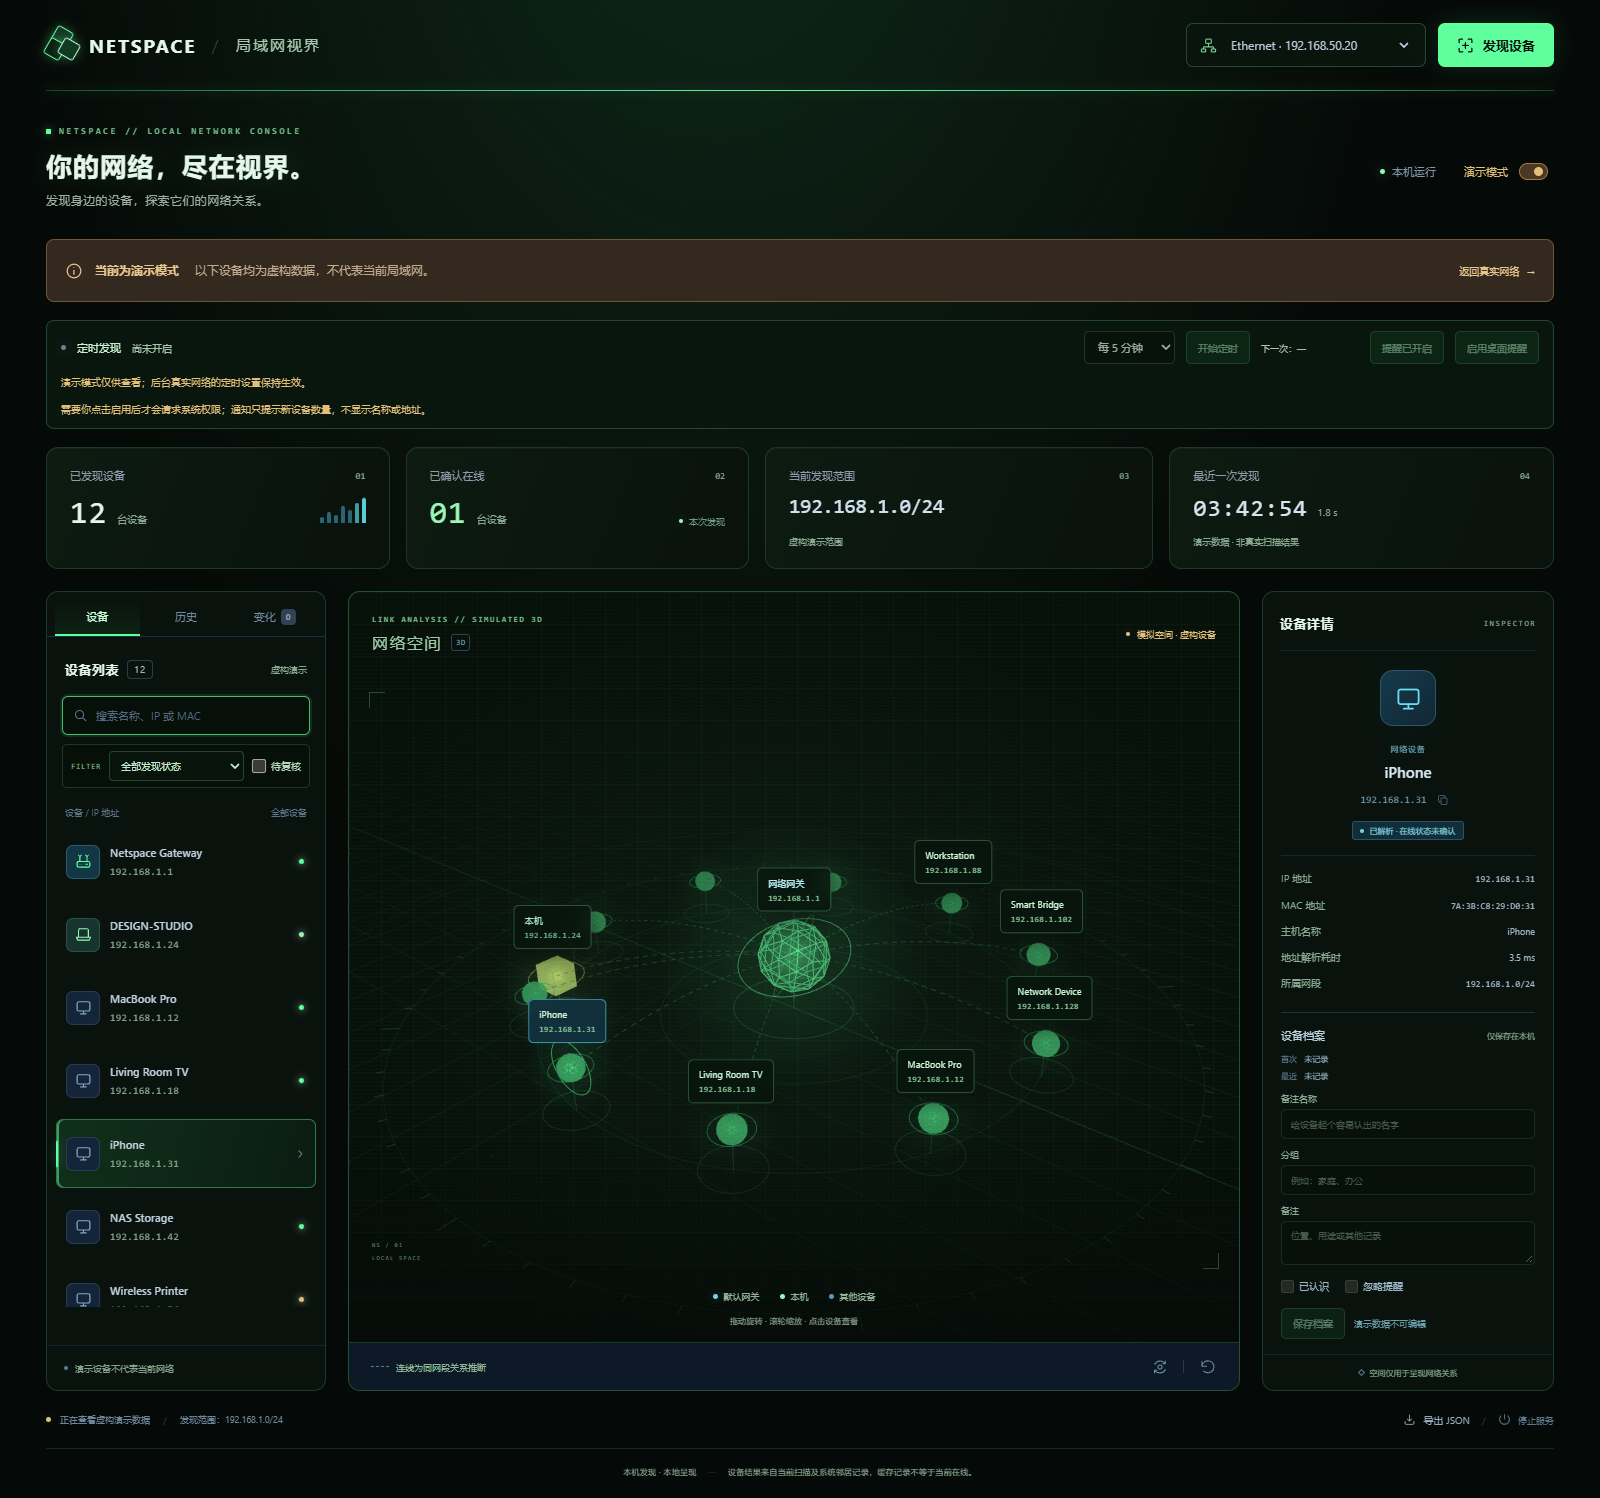
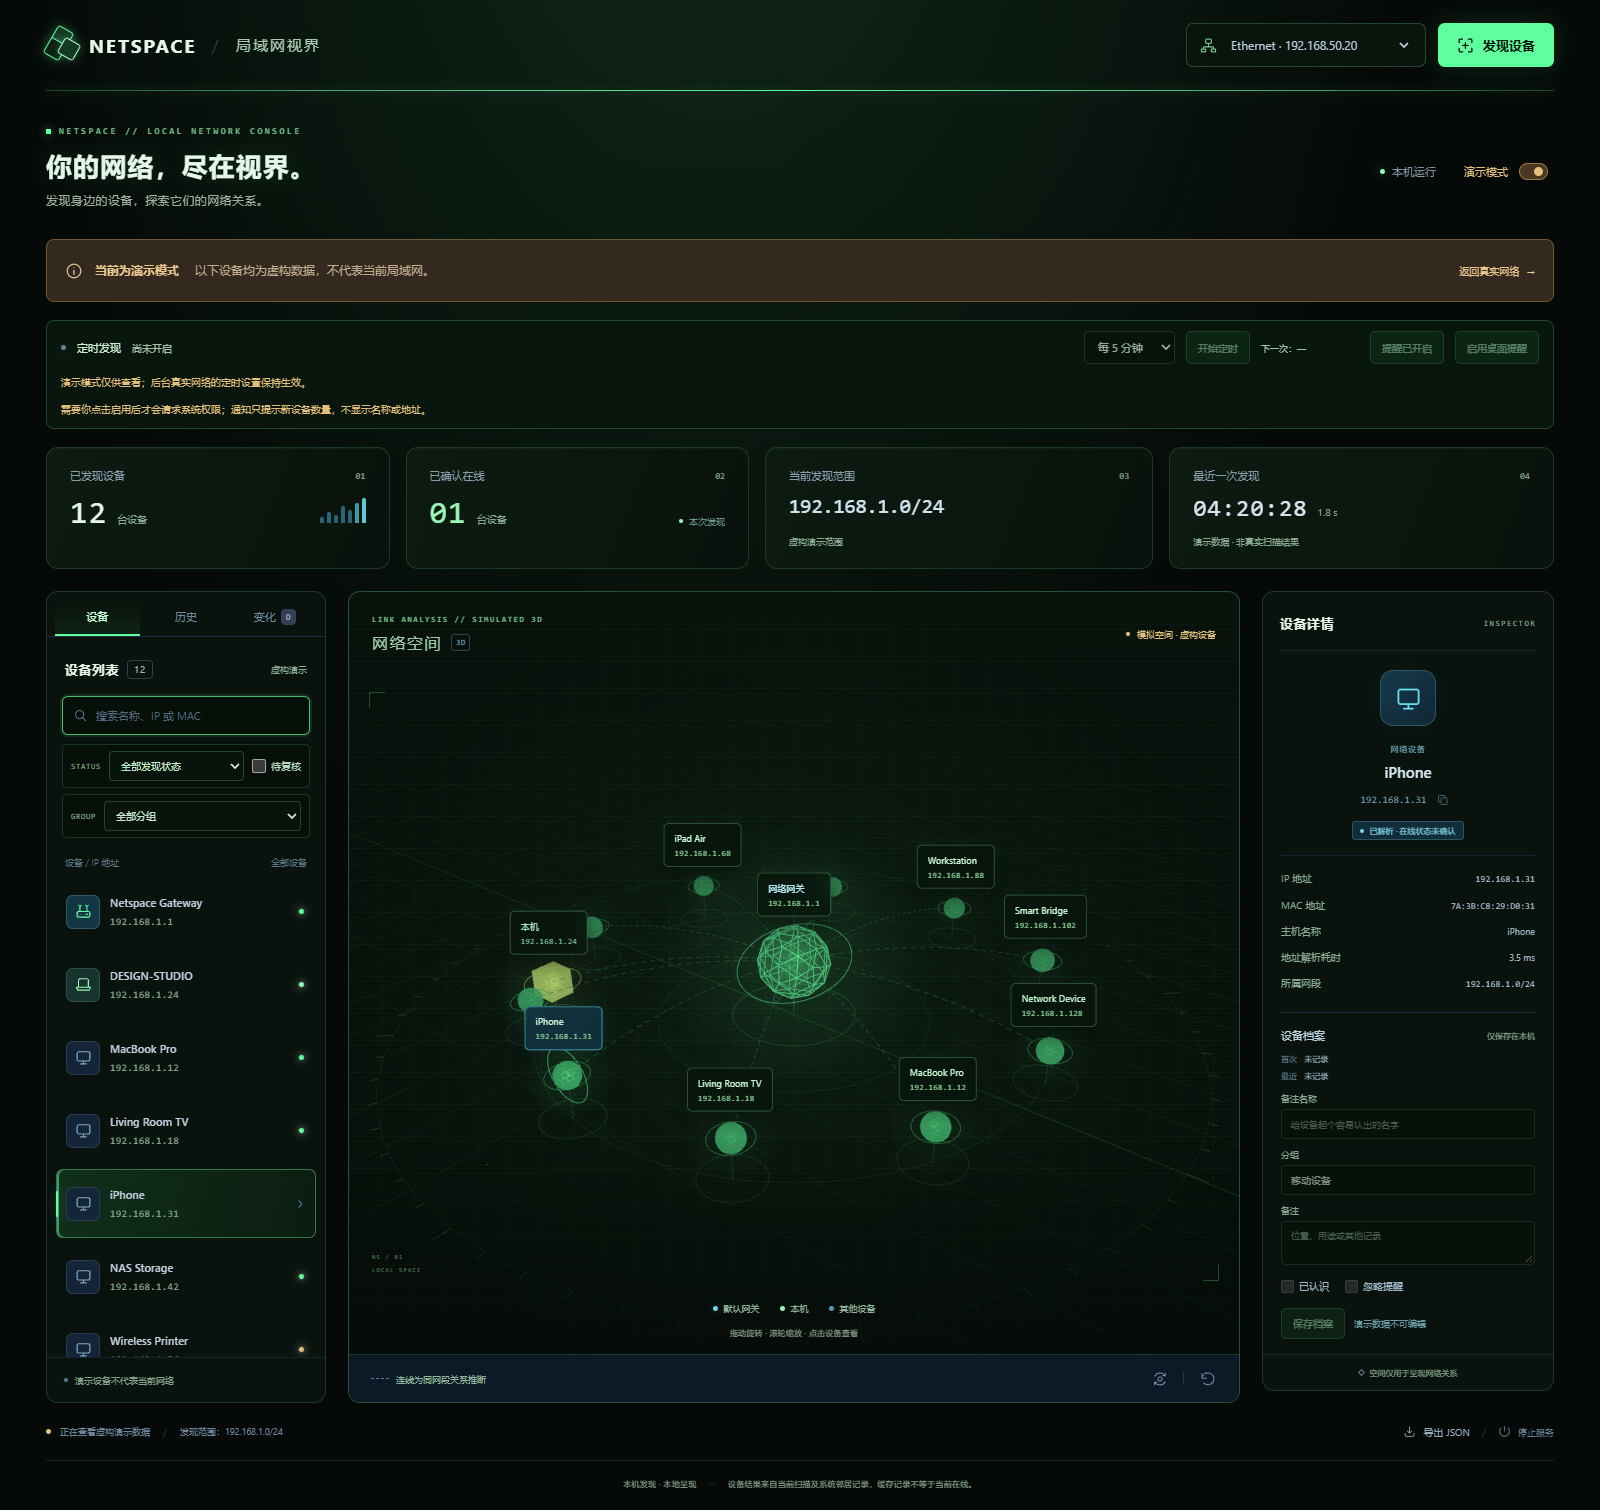
feat: filter devices by saved group

diff --git a/web/app.js b/web/app.js
@@ -17,6 +17,8 @@ let selectedId = null;
 let query = '';
 let statusFilter = '';
 let needsReview = false;
+let groupFilter = '';
+let groupFilterSignature = '';
 let pollTimer = null;
 let pollFailures = 0;
 let toastTimer = null;
@@ -48,7 +50,8 @@ function makeDemoResult() {
   const ignored = new Set(['192.168.1.56']);
   const devices = records.map(([suffix, hostname, kind, status, mac, latencyMs]) => {
     const id = '192.168.1.' + suffix;
-    return { id, ip: id, hostname, kind, status, mac, latencyMs, evidence: ['demo'], profile: { alias: '', notes: '', group: '', known: recognized.has(id), ignored: ignored.has(id) } };
+    const groups = { '192.168.1.1': '基础设施', '192.168.1.12': '工作设备', '192.168.1.18': '影音设备', '192.168.1.31': '移动设备', '192.168.1.42': '工作设备', '192.168.1.56': '影音设备', '192.168.1.68': '移动设备', '192.168.1.76': '影音设备', '192.168.1.88': '工作设备', '192.168.1.102': '基础设施' };
+    return { id, ip: id, hostname, kind, status, mac, latencyMs, evidence: ['demo'], profile: { alias: '', notes: '', group: groups[id] || '', known: recognized.has(id), ignored: ignored.has(id) } };
   });
   return { interface: { id: 'demo', alias: '演示网络', ip: '192.168.1.24', cidr: '192.168.1.0/24', scanCidr: '192.168.1.0/24', gateway: '192.168.1.1' }, devices, links: devices.slice(1).map((device) => ({ source: devices[0].id, target: device.id, kind: 'same-subnet', inferred: true })), scannedAt: new Date().toISOString(), durationMs: 1840, scope: { cidr: '192.168.1.0/24', scanCidr: '192.168.1.0/24', targetCount: 253, limited: false }, warnings: [] };
 }
@@ -60,9 +63,25 @@ function isScanning() { return !stopped && (scanStarting || realState.status ===
 function deviceMatches(device) {
   if (statusFilter && device.status !== statusFilter) return false;
   if (needsReview && (device.kind === 'self' || device.profile?.known === true || device.profile?.ignored === true)) return false;
+  const group = typeof device.profile?.group === 'string' ? device.profile.group.trim() : '';
+  if (groupFilter === 'ungrouped' && group) return false;
+  if (groupFilter.startsWith('group:') && group !== groupFilter.slice(6)) return false;
   return !query || [device.profile?.alias, device.profile?.notes, device.profile?.group, device.hostname, device.ip, device.mac, kindNames[device.kind], statusNames[device.status]].some((value) => String(value || '').toLocaleLowerCase().includes(query));
 }
-function resetDeviceFilters() { statusFilter = ''; needsReview = false; query = ''; ui['device-search'].value = ''; ui['device-status-filter'].value = ''; ui['needs-review-filter'].checked = false; }
+function resetDeviceFilters() { statusFilter = ''; needsReview = false; groupFilter = ''; query = ''; ui['device-search'].value = ''; ui['device-status-filter'].value = ''; ui['device-group-filter'].value = ''; ui['needs-review-filter'].checked = false; }
+function renderGroupFilter(devices) {
+  const groups = [...new Set(devices.map((device) => typeof device.profile?.group === 'string' ? device.profile.group.trim() : '').filter(Boolean))].sort((left, right) => left.localeCompare(right, 'zh-CN'));
+  const options = [['', '全部分组'], ['ungrouped', '未分组'], ...groups.map((group) => ['group:' + group, group])];
+  const signature = JSON.stringify(options);
+  if (signature === groupFilterSignature) return;
+  groupFilterSignature = signature;
+  const selected = options.some(([value]) => value === groupFilter) ? groupFilter : '';
+  ui['device-group-filter'].replaceChildren();
+  for (const [value, label] of options) { const option = document.createElement('option'); option.value = value; option.textContent = label; ui['device-group-filter'].append(option); }
+  groupFilter = selected;
+  ui['device-group-filter'].value = selected;
+}
+function filtersActive() { return Boolean(query || statusFilter || needsReview || groupFilter); }
 function text(id, value) { ui[id].textContent = value; }
 function icon(name, className = 'icon') {
   const svg = document.createElementNS('http://www.w3.org/2000/svg', 'svg');
@@ -191,7 +210,7 @@ function renderList(devices, allCount) {
     button.append(symbol, main, status, icon('arrow', 'icon device-row-chevron'));
     button.addEventListener('click', () => selectDevice(device.id)); li.append(button); ui['device-list'].append(li);
   }
-  const filtered = Boolean(query || statusFilter || needsReview);
+  const filtered = filtersActive();
   text('device-count', String(allCount)); text('filter-info', filtered ? devices.length + ' / ' + allCount : '全部设备');
   ui['list-empty'].hidden = devices.length > 0;
   ui['list-empty'].querySelector('p').textContent = filtered ? '当前筛选条件下没有匹配设备。' : booting ? '正在读取本机网络…' : isScanning() && !demo ? '正在发现，稍后显示设备' : '设备将在发现后显示';
@@ -224,17 +243,18 @@ function renderScene(result, visibleDevices) {
   if (!scene) return;
   const signature = JSON.stringify([demo, interfaceId, result?.scannedAt, result?.devices, result?.links]);
   if (signature !== sceneSignature) { scene.setDevices((result?.devices || []).map((device) => device.profile?.alias ? { ...device, displayName: device.profile.alias } : device), result?.links || []); sceneSignature = signature; }
-  scene.setSelected(selectedId); scene.setFilter(query || statusFilter || needsReview ? new Set(visibleDevices.map((device) => device.id)) : null);
+  scene.setSelected(selectedId); scene.setFilter(filtersActive() ? new Set(visibleDevices.map((device) => device.id)) : null);
 }
 function render() {
   const result = activeResult();
   const devices = result?.devices || [];
+  renderGroupFilter(devices);
   const visibleDevices = devices.filter(deviceMatches);
   const adapter = currentInterface();
   const scanning = isScanning();
   const historical = Boolean(workspace?.replayResult) && !demo;
   if (!devices.some((device) => device.id === selectedId)) selectedId = devices.find((device) => device.kind === 'gateway')?.id || devices.find((device) => device.kind === 'self')?.id || devices[0]?.id || null;
-  if ((query || statusFilter || needsReview) && !visibleDevices.some((device) => device.id === selectedId)) selectedId = visibleDevices[0]?.id || null;
+  if (filtersActive() && !visibleDevices.some((device) => device.id === selectedId)) selectedId = visibleDevices[0]?.id || null;
   const scope = result?.scope?.scanCidr || result?.interface?.scanCidr || (demo ? '192.168.1.0/24' : adapter?.scanCidr || adapter?.cidr);
   text('stat-total', result ? String(devices.length).padStart(2, '0') : '—');
   text('stat-online', result ? String(devices.filter((device) => device.status === 'online').length).padStart(2, '0') : '—');
@@ -270,7 +290,7 @@ function render() {
   ui['scene-empty'].hidden = !showEmpty;
   let emptyTitle = '等待发现你的网络'; let emptyDescription = '选择网络适配器，点击“发现设备”开始探索。';
   if (sceneError && devices.length) { emptyTitle = '当前环境无法显示三维空间'; emptyDescription = '设备数据已加载。你仍可通过设备列表查看详情和导出结果。'; }
-  else if ((query || statusFilter || needsReview) && !visibleDevices.length && devices.length) { emptyTitle = query ? '未找到匹配设备' : needsReview && !statusFilter ? '没有待复核设备' : '没有符合条件的设备'; emptyDescription = query ? '调整搜索关键词或筛选条件，继续探索网络空间。' : '更改左侧筛选条件，查看其他设备。'; }
+  else if (filtersActive() && !visibleDevices.length && devices.length) { emptyTitle = query ? '未找到匹配设备' : needsReview && !statusFilter && !groupFilter ? '没有待复核设备' : '没有符合条件的设备'; emptyDescription = query ? '调整搜索关键词或筛选条件，继续探索网络空间。' : '更改左侧筛选条件，查看其他设备。'; }
   else if (booting) { emptyTitle = '正在连接本机网络'; emptyDescription = '读取网络适配器后，将开始发现设备。'; }
   else if (!interfaceId && !demo) { emptyTitle = '没有可用的网络适配器'; emptyDescription = error || '请连接 Wi-Fi 或有线局域网，然后重新读取。'; }
   else if (error && !devices.length) { emptyTitle = '暂时无法发现设备'; emptyDescription = error; }
@@ -298,6 +318,7 @@ ui['scan-button'].addEventListener('click', () => realState.status === 'error' ?
 ui['interface-select'].addEventListener('change', () => { workspace?.leaveReplay(false); interfaceId = ui['interface-select'].value; selectedId = null; resetDeviceFilters(); if (realState.status === 'error') realState = { ...realState, status: 'idle', error: null }; render(); });
 ui['device-search'].addEventListener('input', () => { query = ui['device-search'].value.trim().toLocaleLowerCase(); render(); });
 ui['device-status-filter'].addEventListener('change', () => { statusFilter = ui['device-status-filter'].value; render(); });
+ui['device-group-filter'].addEventListener('change', () => { groupFilter = ui['device-group-filter'].value; render(); });
 ui['needs-review-filter'].addEventListener('change', () => { needsReview = ui['needs-review-filter'].checked; render(); });
 ui['retry-button'].addEventListener('click', retryDiscovery);
 ui['rotate-button'].addEventListener('click', () => { autoRotate = !autoRotate; updateRotate(); });

diff --git a/web/index.html b/web/index.html
@@ -75,7 +75,8 @@
           <div id="devices-pane" role="tabpanel" aria-labelledby="tab-devices" class="device-tab-content">
           <div class="panel-heading"><h2 id="devices-title">设备列表 <span class="count-badge" id="device-count">0</span></h2><span class="micro-label" id="list-source">真实网络</span></div>
           <div class="search-field"><svg class="icon" aria-hidden="true"><use href="#i-search"/></svg><label class="sr-only" for="device-search">搜索设备名称、IP 或 MAC</label><input type="search" id="device-search" placeholder="搜索名称、IP 或 MAC" autocomplete="off"></div>
-          <div class="status-filter"><label class="sr-only" for="device-status-filter">按发现状态筛选设备</label><span class="filter-prompt" aria-hidden="true">FILTER</span><select id="device-status-filter"><option value="">全部发现状态</option><option value="online">已确认在线</option><option value="resolved">已解析 · 在线未确认</option><option value="cached">系统缓存 · 在线未确认</option><option value="unverified">待确认</option></select><label class="review-filter" for="needs-review-filter"><input id="needs-review-filter" type="checkbox">待复核</label></div>
+          <div class="status-filter"><label class="sr-only" for="device-status-filter">按发现状态筛选设备</label><span class="filter-prompt" aria-hidden="true">STATUS</span><select id="device-status-filter"><option value="">全部发现状态</option><option value="online">已确认在线</option><option value="resolved">已解析 · 在线未确认</option><option value="cached">系统缓存 · 在线未确认</option><option value="unverified">待确认</option></select><label class="review-filter" for="needs-review-filter"><input id="needs-review-filter" type="checkbox">待复核</label></div>
+          <div class="group-filter"><label class="sr-only" for="device-group-filter">按设备档案分组筛选</label><span class="filter-prompt" aria-hidden="true">GROUP</span><select id="device-group-filter"><option value="">全部分组</option></select></div>
           <div class="list-caption"><span>设备 / IP 地址</span><span id="filter-info">全部设备</span></div>
           <ul id="device-list" class="device-list" aria-label="已发现设备"></ul>
           <div id="list-empty" class="list-empty"><span class="empty-line"></span><p>设备将在发现后显示</p></div>

diff --git a/web/style.css b/web/style.css
@@ -71,4 +71,8 @@ body:before{background:radial-gradient(ellipse at 46% -20%,#1a492b55,transparent
 .review-filter{display:flex;flex:0 0 auto;align-items:center;gap:5px;white-space:nowrap;color:#b7d7bf;font-size:10px;cursor:pointer}
 .review-filter input{width:14px;height:14px;margin:0;accent-color:#60ff9d}
 .review-filter:focus-within{outline:2px solid #81ffad;outline-offset:3px;border-radius:2px}
-@media(max-width:760px){.status-filter{margin-top:9px;min-height:42px}.status-filter select{height:34px;font-size:11px}.filter-prompt{font-size:8px}}
+.group-filter{display:grid;grid-template-columns:auto minmax(0,1fr);align-items:center;gap:8px;margin:6px 15px 0;padding:6px 8px;border:1px solid #1a3823;border-radius:5px;background:#061009}
+.group-filter select{width:100%;min-width:0;height:30px;padding:0 7px;border:1px solid #24472d;border-radius:4px;background:#08130b;color:#c5e9ce;font-size:10px}
+.group-filter select:hover{border-color:#428052}
+.group-filter select:focus-visible{outline:2px solid #81ffad;outline-offset:2px}
+@media(max-width:760px){.status-filter{margin-top:9px;min-height:42px}.status-filter select,.group-filter select{height:34px;font-size:11px}.group-filter{min-height:42px}.filter-prompt{font-size:8px}}

diff --git a/tools/packaged_smoke.py b/tools/packaged_smoke.py
@@ -60,7 +60,7 @@ def main():
                 raise RuntimeError('Packaged application exited before startup')
             try:
                 health = request('/api/health', timeout=1)
-                assert health == {'app': 'NetSpace', 'version': '1.5.0'}
+                assert health == {'app': 'NetSpace', 'version': '1.6.0'}
                 break
             except Exception:
                 if time.monotonic() > deadline:

diff --git a/app.py b/app.py
@@ -24,7 +24,7 @@ from monitoring import MonitorController
 from network_store import NetworkStore
 
 
-VERSION = '1.5.0'
+VERSION = '1.6.0'
 RESOURCE_ROOT = Path(getattr(sys, '_MEIPASS', Path(__file__).resolve().parent))
 WEB_ROOT = RESOURCE_ROOT / 'web'
 LOGGER = logging.getLogger('netspace')

diff --git a/docs/verification-1.6.0-2026-11-20.md b/docs/verification-1.6.0-2026-11-20.md
@@ -1,0 +1,17 @@
+# NetSpace 1.6.0 Verification Record
+
+Date: 2026-11-20
+
+## Results
+
+- python -m unittest discover -s tests -v: 81 tests passed. The v1.5.0 worker-start recovery and finite-duration persistence checks remain green.
+- node tools/ui_smoke.cjs: passed the profile-group filter on live fixture data and synthetic demo data, including grouped and ungrouped options, composition with review/status/search filters, 3D node visibility, adapter reset, CSP, no external resources, responsive layout and export.
+- node tools/ui_upgrade.cjs: passed adding a group after saving a profile, changing the group, clearing it, removing unused options, filtering cleared profiles as ungrouped, and preserving existing profile/history/notification workflows.
+- node tools/ui_recovery.cjs: passed adapter disconnect/reselection and in-flight scan recovery checks.
+- powershell -NoProfile -ExecutionPolicy Bypass -File build.ps1: built the v1.6.0 Windows single-file executable and Windows/source archives.
+- python tools/packaged_smoke.py: passed the bundled-runtime checks, startup without Python on PATH, Windows native discovery, profile/settings/history persistence across restarts, scheduled discovery and shutdown. This run discovered 3 records and 2 inferred links without warnings.
+- python -m py_compile app.py tools/packaged_smoke.py, node --check web/app.js, node --check tools/ui_smoke.cjs, node --check tools/ui_upgrade.cjs, and git diff --check: passed.
+
+## Scope
+
+The group filter is derived from profiles already present in the selected result. It is local-only, does not add discovery traffic, and does not claim physical location or network-port topology. Empty groups are represented by “未分组”. Changing a profile updates the options without changing historical snapshots.
